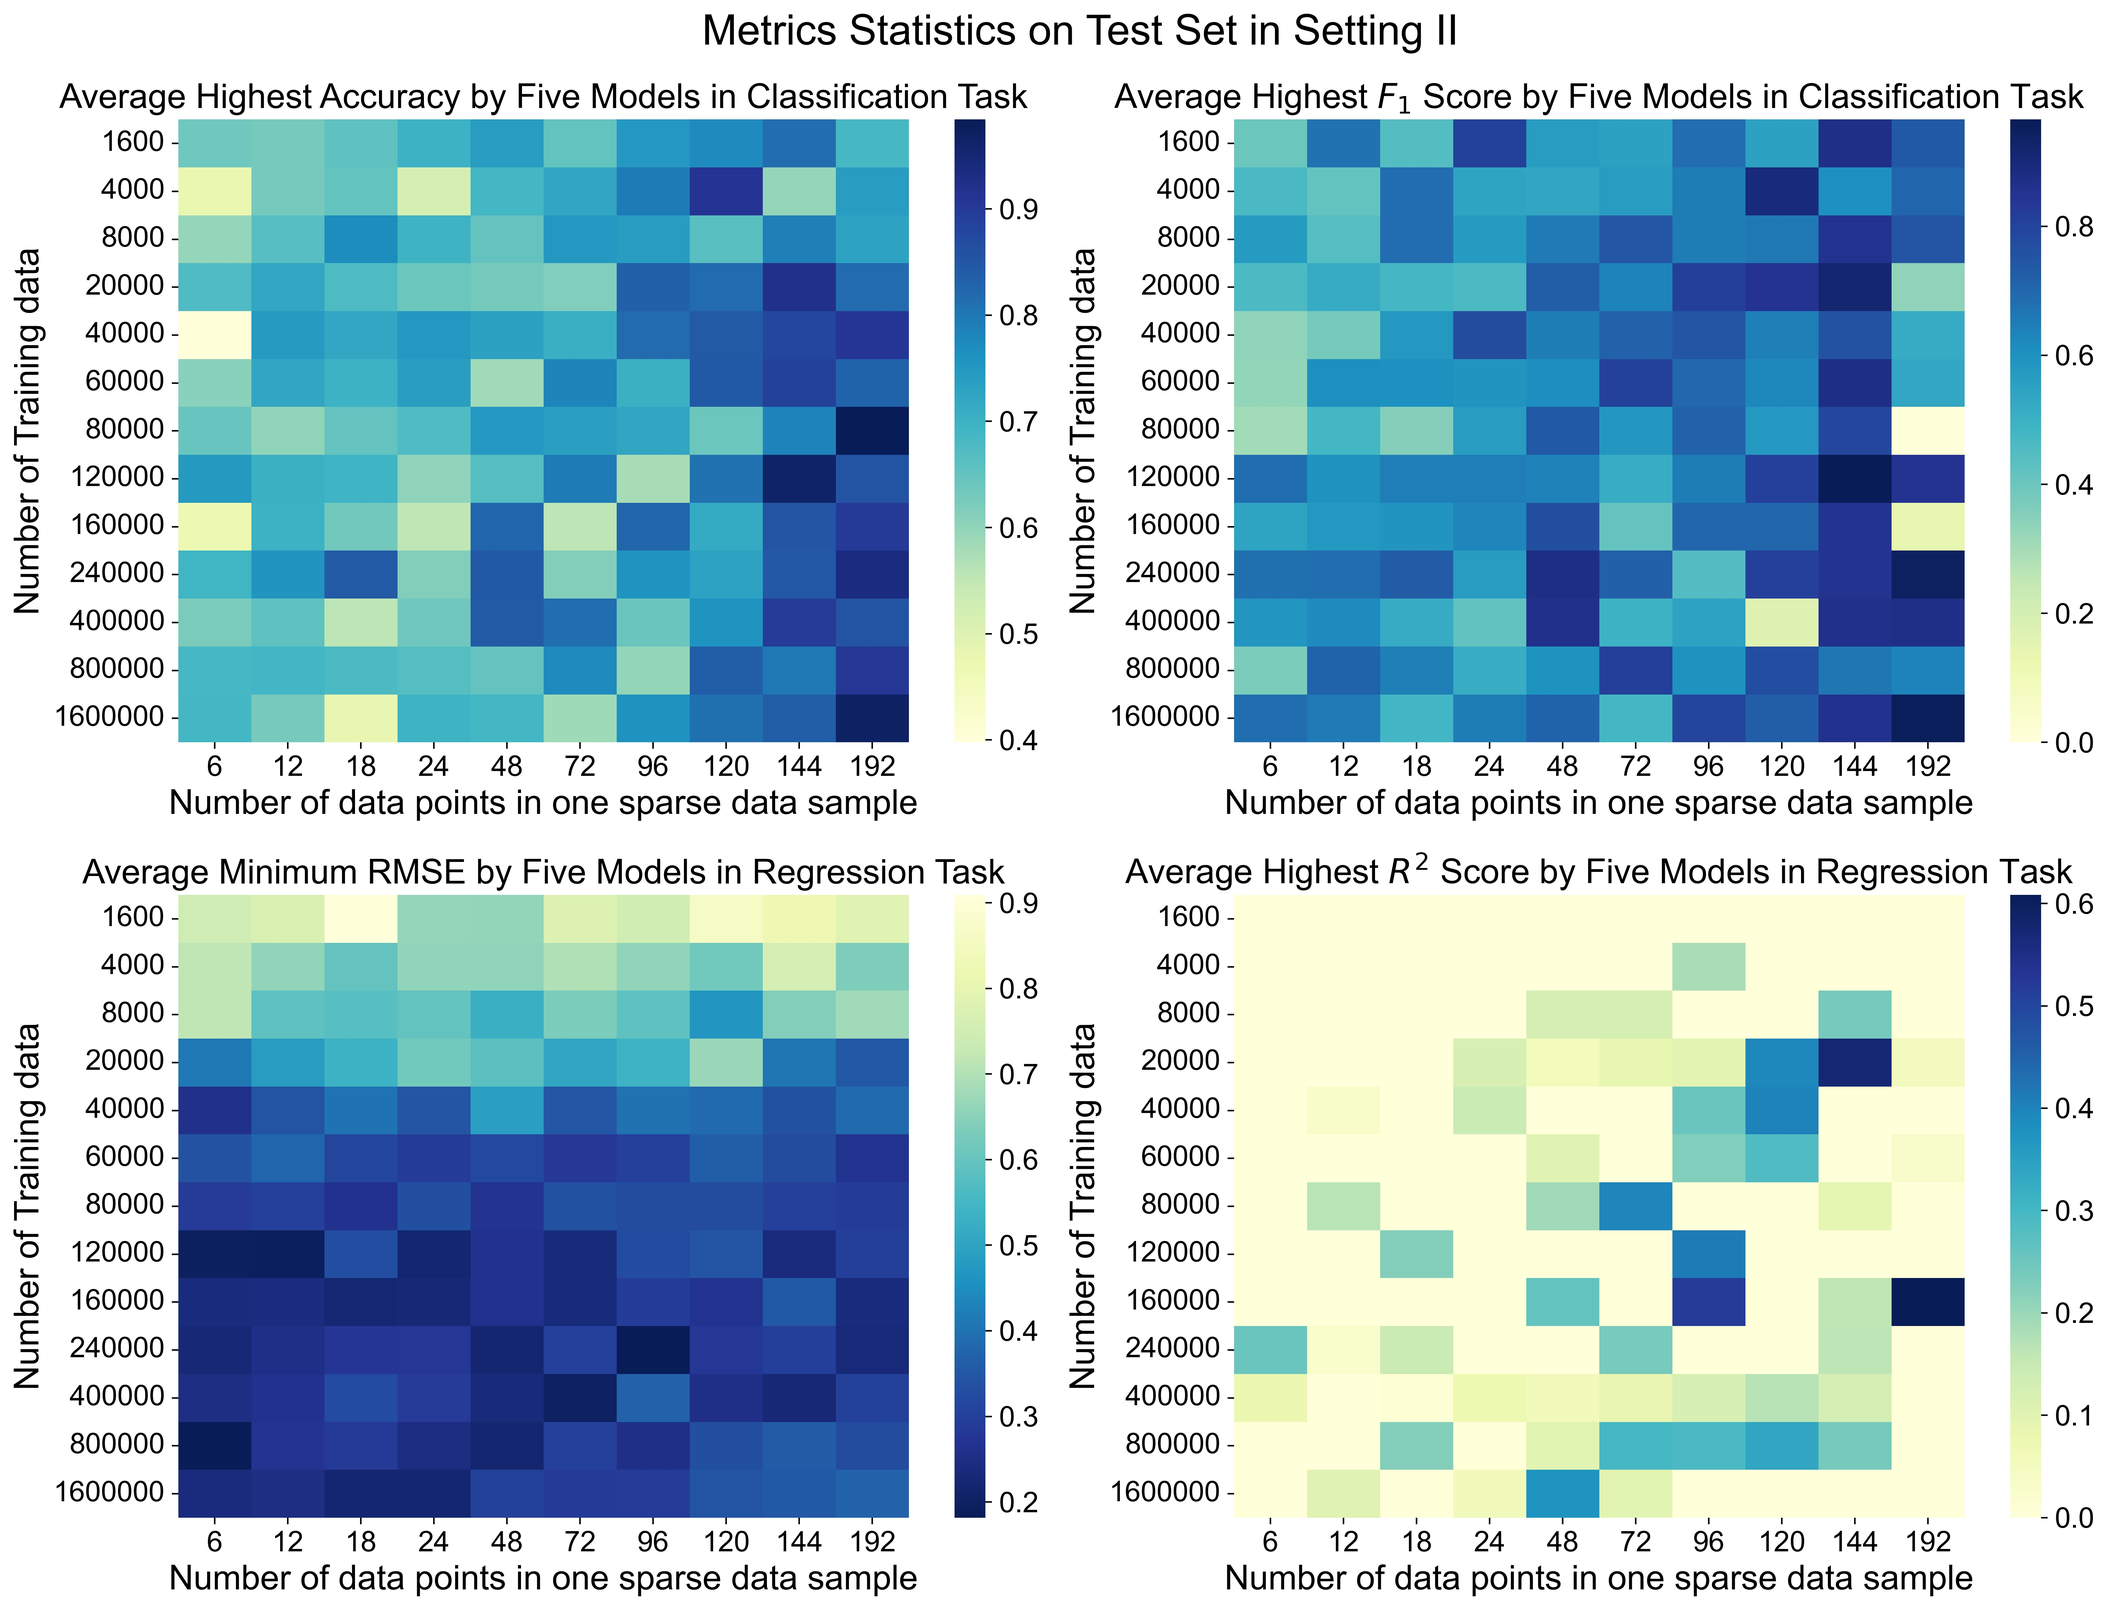
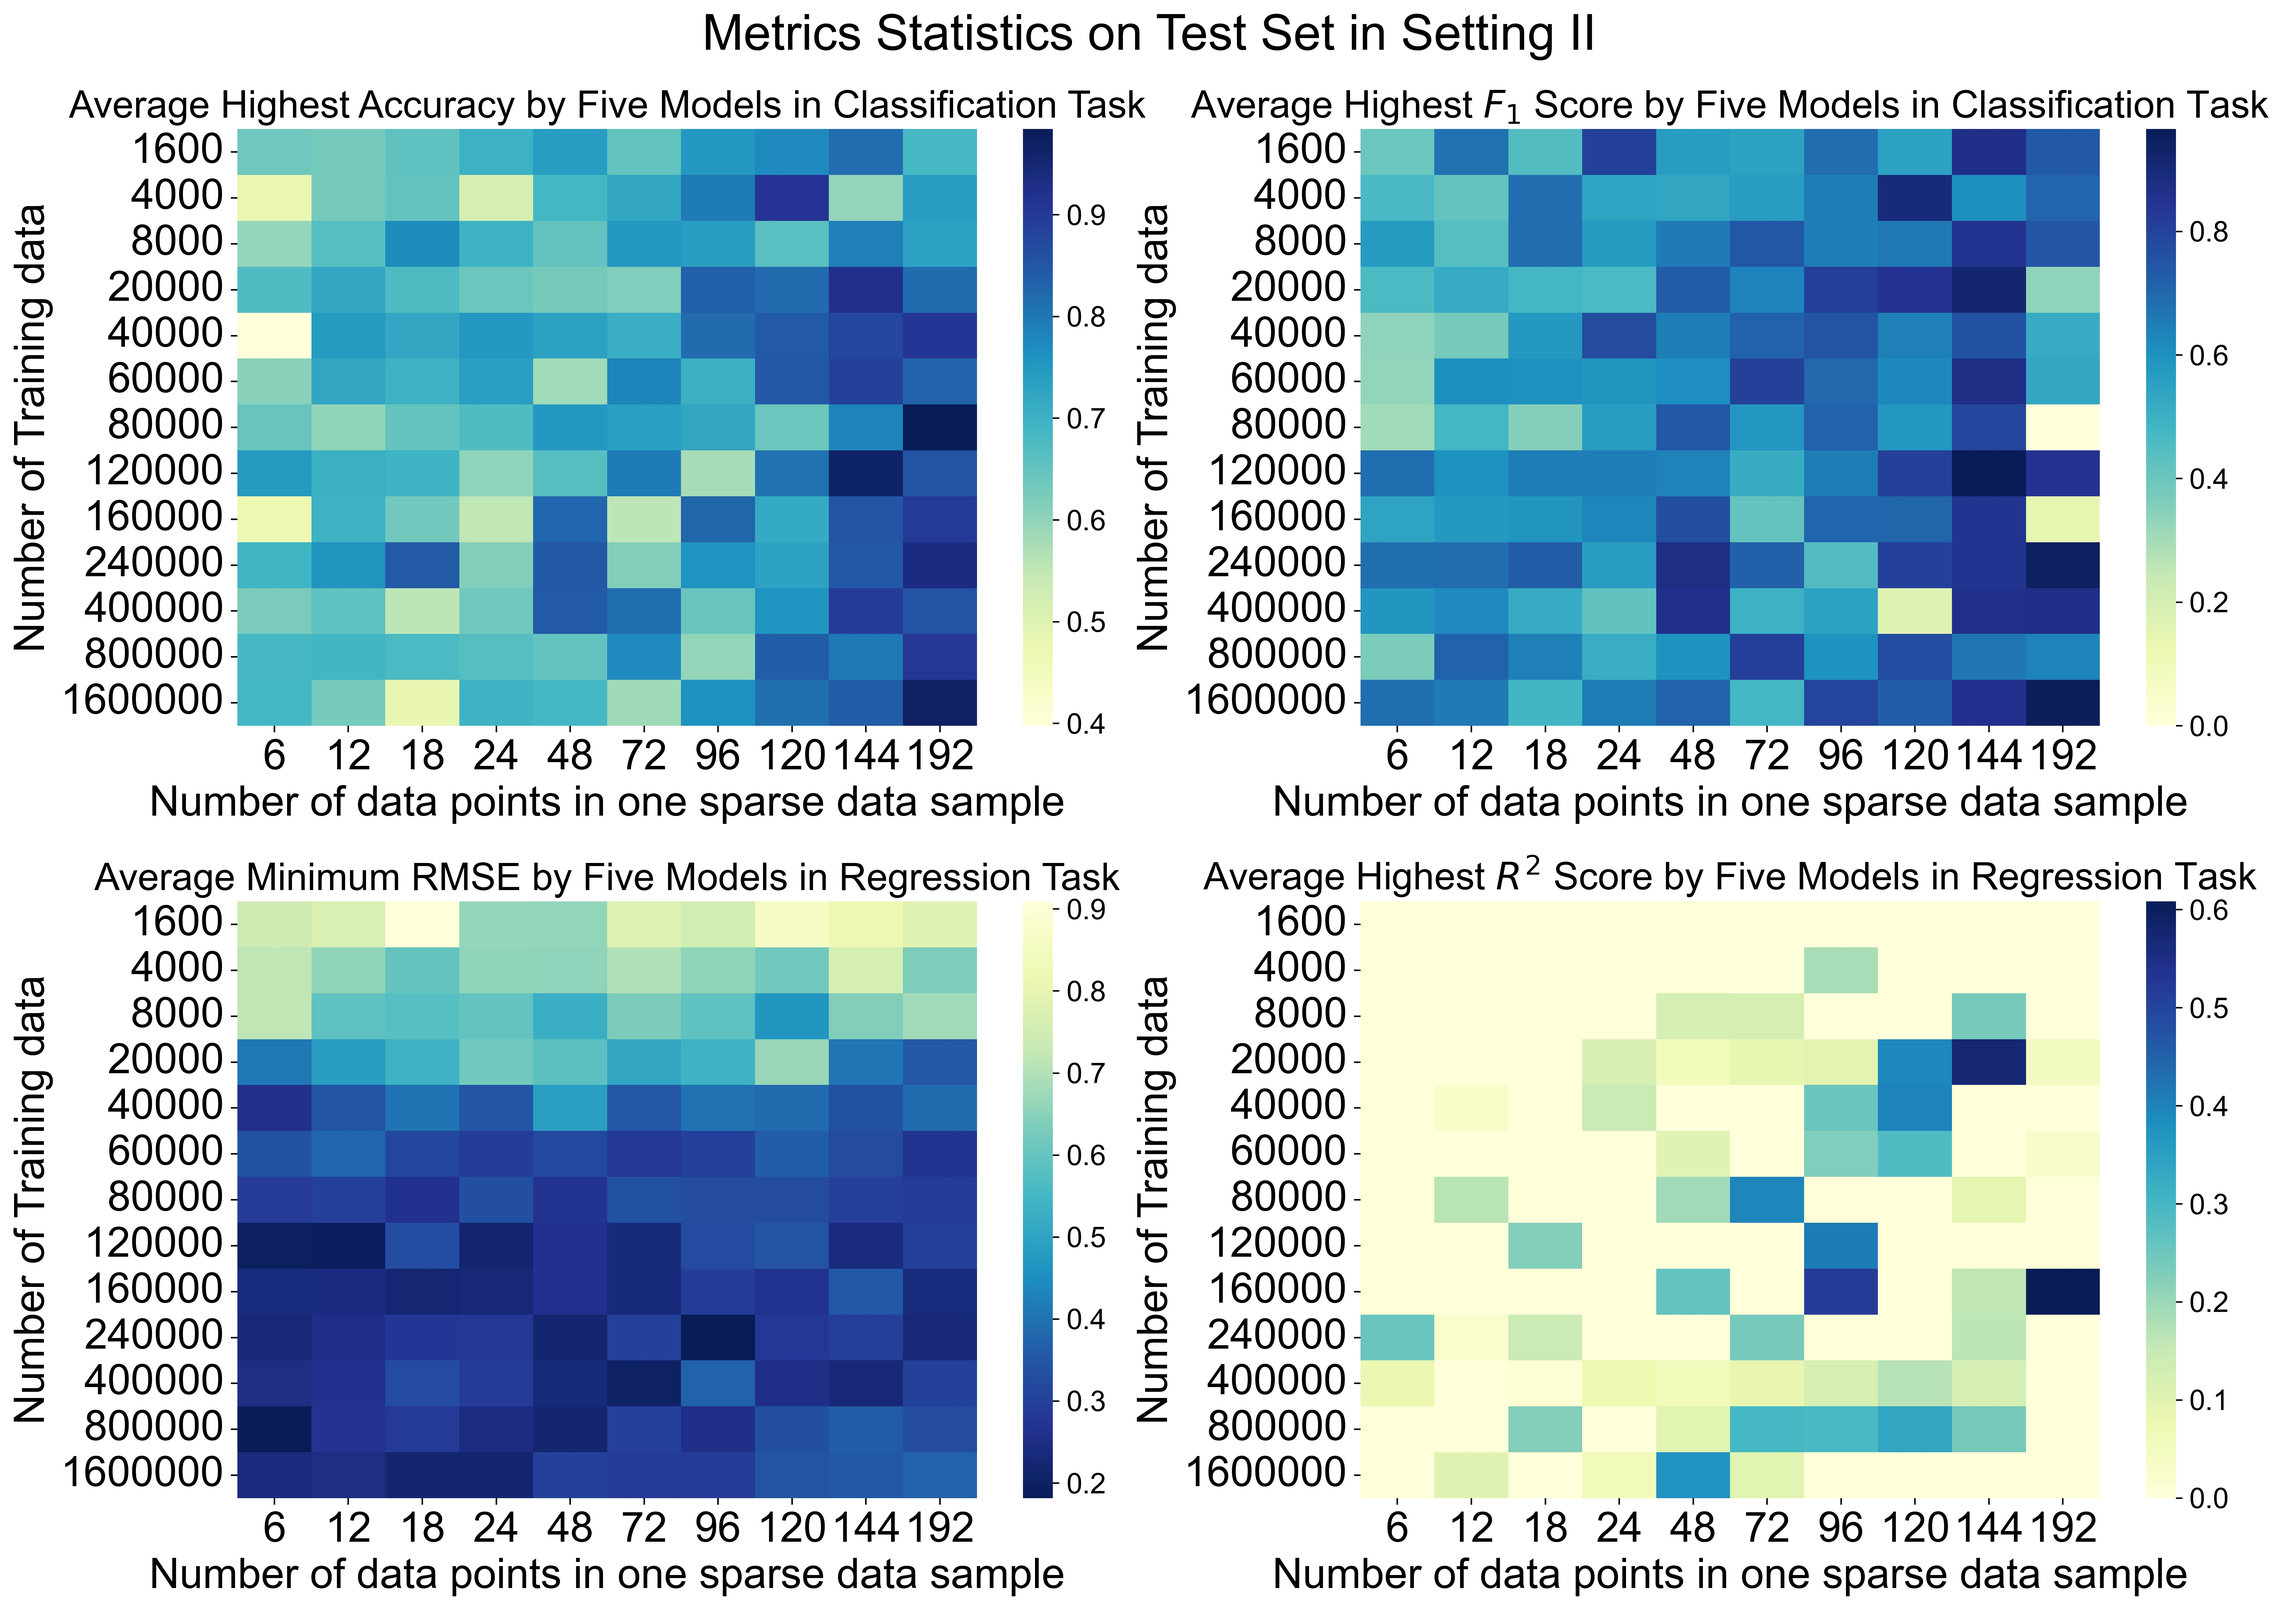
update

Changed region(s): [[0.0, 0.0, 0.9997, 0.9953], [0.781, 0.591, 0.8435, 0.6221]]

diff --git a/new_room_validation/plot.py b/new_room_validation/plot.py
@@ -61,35 +61,46 @@ for gs in gs_choices:
 
 plt.rcParams["font.family"] = "Arial"
 plt.rcParams.update({'font.size': 15})
-plt.rcParams['figure.figsize'] = 16, 12
+plt.rcParams['figure.figsize'] = 17, 12
 plt.rcParams["figure.autolayout"] = True
 plt.subplot(2, 2, 1)
 sns.heatmap(heatmap_df_acc_mean.to_numpy(), annot=add_annot, xticklabels=gs_choices,
             yticklabels=[int(i * 0.8) for i in data_num_choices], cmap="YlGnBu", fmt=".2f", linewidths=linewidth)
-plt.xlabel("Number of data points in one sparse data sample", fontsize=18)
-plt.ylabel("Number of Training data", fontsize=18)
-plt.title("Average Highest Accuracy by Five Models in Classification Task", fontsize=18)
+plt.xlabel("Number of data points in one sparse data sample", fontsize=22)
+plt.ylabel("Number of Training data", fontsize=22)
+plt.xticks(fontsize=22)
+plt.yticks(fontsize=22)
+plt.title("Average Highest Accuracy by Five Models in Classification Task", fontsize=20)
+
 plt.subplot(2, 2, 2)
 sns.heatmap(heatmap_df_f1_mean.to_numpy(), annot=add_annot, xticklabels=gs_choices,
             yticklabels=[int(i * 0.8) for i in data_num_choices], cmap="YlGnBu", fmt=".2f", linewidths=linewidth)
-plt.xlabel("Number of data points in one sparse data sample", fontsize=18)
-plt.ylabel("Number of Training data", fontsize=18)
-plt.title("Average Highest $F_1$ Score by Five Models in Classification Task", fontsize=18)
+plt.xlabel("Number of data points in one sparse data sample", fontsize=22)
+plt.ylabel("Number of Training data", fontsize=22)
+plt.xticks(fontsize=22)
+plt.yticks(fontsize=22)
+plt.title("Average Highest $F_1$ Score by Five Models in Classification Task", fontsize=20)
+
 plt.subplot(2, 2, 3)
 sns.heatmap(heatmap_df_rmse_mean.to_numpy(), annot=add_annot, xticklabels=gs_choices,
             yticklabels=[int(i * 0.8) for i in data_num_choices], cmap="YlGnBu_r", fmt=".2f", linewidths=linewidth)
-plt.xlabel("Number of data points in one sparse data sample", fontsize=18)
-plt.ylabel("Number of Training data", fontsize=18)
-plt.title("Average Minimum RMSE by Five Models in Regression Task", fontsize=18)
+plt.xlabel("Number of data points in one sparse data sample", fontsize=22)
+plt.ylabel("Number of Training data", fontsize=22)
+plt.xticks(fontsize=22)
+plt.yticks(fontsize=22)
+plt.title("Average Minimum RMSE by Five Models in Regression Task", fontsize=20)
+
 plt.subplot(2, 2, 4)
 # heatmap_df_r2_mean = gaussian_filter(heatmap_df_r2_mean, sigma=1)
 sns.heatmap(heatmap_df_r2_mean.to_numpy(), annot=add_annot, xticklabels=gs_choices,
             yticklabels=[int(i * 0.8) for i in data_num_choices], cmap="YlGnBu", fmt=".2f", linewidths=linewidth)
-plt.xlabel("Number of data points in one sparse data sample", fontsize=18)
-plt.ylabel("Number of Training data", fontsize=18)
-plt.title("Average Highest $R^2$ Score by Five Models in Regression Task", fontsize=18)
+plt.xlabel("Number of data points in one sparse data sample", fontsize=22)
+plt.ylabel("Number of Training data", fontsize=22)
+plt.xticks(fontsize=22)
+plt.yticks(fontsize=22)
+plt.title("Average Highest $R^2$ Score by Five Models in Regression Task", fontsize=20)
 
-plt.suptitle("Metrics Statistics on Test Set in Setting II", fontsize=22)
+plt.suptitle("Metrics Statistics on Test Set in Setting II", fontsize=26)
 plt.savefig('./ALL_PLOT.jpg', bbox_inches='tight', dpi=800)
 plt.savefig('../demo/SettingII_all.jpg', bbox_inches='tight', dpi=400)
 plt.clf()
@@ -104,23 +115,31 @@ reg['model'] = reg['model'].apply(lambda x: {'bilstm': 'BiLSTM', 'lstm': 'LSTM',
                                              'bilstm-transformer': 'BiLSTM-Transformer'}[x])
 plt.subplot(2, 2, 1)
 sns.lineplot(data=cla, y='best_valid_f1', x='gs', hue='model', ci=None)
-plt.xlabel("Number of data points in one sparse data sample", fontsize=18)
-plt.ylabel("Maximum $f_1$ Score", fontsize=18)
+plt.xlabel("Number of data points in one sparse data sample", fontsize=22)
+plt.ylabel("Maximum $f_1$ Score", fontsize=22)
+plt.xticks(fontsize=22)
+plt.yticks(fontsize=22)
 plt.subplot(2, 2, 2)
 sns.lineplot(data=cla, y='best_valid_f1', x='data_number', hue='model', ci=None)
-plt.xlabel("Number of training data", fontsize=18)
-plt.ylabel("Maximum $f_1$ Score", fontsize=18)
+plt.xlabel("Number of training data", fontsize=22)
+plt.ylabel("Maximum $f_1$ Score", fontsize=22)
+plt.xticks(fontsize=22)
+plt.yticks(fontsize=22)
 plt.subplot(2, 2, 3)
 sns.lineplot(data=reg, y='best_valid_r2', x='gs', hue='model', ci=None)
-plt.xlabel("Number of data points in one sparse data sample", fontsize=18)
-plt.ylabel("Maximum $R^2$ Score", fontsize=18)
+plt.xlabel("Number of data points in one sparse data sample", fontsize=22)
+plt.ylabel("Maximum $R^2$ Score", fontsize=22)
+plt.xticks(fontsize=22)
+plt.yticks(fontsize=22)
 plt.subplot(2, 2, 4)
 sns.lineplot(data=reg, y='best_valid_r2', x='data_number', hue='model', ci=None)
-plt.xlabel("Number of training data", fontsize=18)
-plt.ylabel("Maximum $R^2$ Score", fontsize=18)
+plt.xlabel("Number of training data", fontsize=22)
+plt.ylabel("Maximum $R^2$ Score", fontsize=22)
+plt.xticks(fontsize=22)
+plt.yticks(fontsize=22)
 plt.suptitle(
     "Comparison between five models in both tasks on test set in Setting II\nwith respect to two parameters in sparse data sampling",
-    fontsize=22)
+    fontsize=26)
 plt.savefig('./Model_Plot.png', bbox_inches='tight', dpi=800)
 plt.savefig('../demo/SettingII_model.jpg', bbox_inches='tight', dpi=400)
 plt.clf()

diff --git a/sparse_classification/plot.py b/sparse_classification/plot.py
@@ -60,38 +60,46 @@ for gs in gs_choices:
 
 plt.rcParams["font.family"] = "Arial"
 plt.rcParams.update({'font.size': 16})
-plt.rcParams['figure.figsize'] = 16, 12
+plt.rcParams['figure.figsize'] = 17, 12
 plt.rcParams["figure.autolayout"] = True
 plt.subplot(2, 2, 1)
 sns.heatmap(heatmap_df_acc_mean.to_numpy(), annot=add_annot, xticklabels=gs_choices,
             yticklabels=[int(i * 0.8) for i in data_num_choices], cmap="YlGnBu", fmt=".2f", linewidths=linewidth)
-plt.xlabel("Number of data points in one sparse data sample", fontsize=18)
-plt.ylabel("Number of Training data", fontsize=18)
-plt.title("Average Highest Accuracy by Five Models in Classification Task")
+plt.xlabel("Number of data points in one sparse data sample", fontsize=22)
+plt.ylabel("Number of Training data", fontsize=22)
+plt.xticks(fontsize=22)
+plt.yticks(fontsize=22)
+plt.title("Average Highest Accuracy by Five Models in Classification Task", fontsize=20)
 
 plt.subplot(2, 2, 2)
 sns.heatmap(heatmap_df_f1_mean.to_numpy(), annot=add_annot, xticklabels=gs_choices,
             yticklabels=[int(i * 0.8) for i in data_num_choices], cmap="YlGnBu", fmt=".2f", linewidths=linewidth)
-plt.xlabel("Number of data points in one sparse data sample", fontsize=18)
-plt.ylabel("Number of Training data", fontsize=18)
-plt.title("Average Highest $F_1$ Score by Five Models in Classification Task")
+plt.xlabel("Number of data points in one sparse data sample", fontsize=22)
+plt.ylabel("Number of Training data", fontsize=22)
+plt.xticks(fontsize=22)
+plt.yticks(fontsize=22)
+plt.title("Average Highest $F_1$ Score by Five Models in Classification Task", fontsize=20)
 
 plt.subplot(2, 2, 3)
 sns.heatmap(heatmap_df_rmse_mean.to_numpy(), annot=add_annot, xticklabels=gs_choices,
             yticklabels=[int(i * 0.8) for i in data_num_choices], cmap="YlGnBu_r", fmt=".2f", linewidths=linewidth)
-plt.xlabel("Number of data points in one sparse data sample", fontsize=18)
-plt.ylabel("Number of Training data", fontsize=18)
-plt.title("Average Minimum RMSE by Five Models in Regression Task")
+plt.xlabel("Number of data points in one sparse data sample", fontsize=22)
+plt.ylabel("Number of Training data", fontsize=22)
+plt.xticks(fontsize=22)
+plt.yticks(fontsize=22)
+plt.title("Average Minimum RMSE by Five Models in Regression Task", fontsize=20)
 
 plt.subplot(2, 2, 4)
 # heatmap_df_r2_mean = gaussian_filter(heatmap_df_r2_mean, sigma=1)
 sns.heatmap(heatmap_df_r2_mean.to_numpy(), annot=add_annot, xticklabels=gs_choices,
             yticklabels=[int(i * 0.8) for i in data_num_choices], cmap="YlGnBu", fmt=".2f", linewidths=linewidth)
-plt.xlabel("Number of data points in one sparse data sample", fontsize=18)
-plt.ylabel("Number of Training data", fontsize=18)
-plt.title("Average Highest $R^2$ Score by Five Models in Regression Task")
+plt.xlabel("Number of data points in one sparse data sample", fontsize=22)
+plt.ylabel("Number of Training data", fontsize=22)
+plt.xticks(fontsize=22)
+plt.yticks(fontsize=22)
+plt.title("Average Highest $R^2$ Score by Five Models in Regression Task", fontsize=20)
 
-plt.suptitle("Metrics Statistics on Test Set in Setting I", fontsize=22)
+plt.suptitle("Metrics Statistics on Test Set in Setting I", fontsize=26)
 plt.savefig('./ALL_PLOT.jpg', bbox_inches='tight', dpi=800)
 plt.savefig('../demo/SettingI_all.jpg', bbox_inches='tight', dpi=400)
 plt.clf()
@@ -106,23 +114,31 @@ reg['model'] = reg['model'].apply(lambda x: {'bilstm': 'BiLSTM', 'lstm': 'LSTM',
                                              'bilstm-transformer': 'BiLSTM-Transformer'}[x])
 plt.subplot(2, 2, 1)
 sns.lineplot(data=cla, y='best_valid_f1', x='gs', hue='model', ci=None)
-plt.xlabel("Number of data points in one sparse data sample", fontsize=18)
-plt.ylabel("Maximum $f_1$ Score", fontsize=18)
+plt.xlabel("Number of data points in one sparse data sample", fontsize=22)
+plt.ylabel("Maximum $f_1$ Score", fontsize=22)
+plt.xticks(fontsize=22)
+plt.yticks(fontsize=22)
 plt.subplot(2, 2, 2)
 sns.lineplot(data=cla, y='best_valid_f1', x='data_number', hue='model', ci=None)
-plt.xlabel("Number of training data", fontsize=18)
-plt.ylabel("Maximum $f_1$ Score", fontsize=18)
+plt.xlabel("Number of training data", fontsize=22)
+plt.ylabel("Maximum $f_1$ Score", fontsize=22)
+plt.xticks(fontsize=22)
+plt.yticks(fontsize=22)
 plt.subplot(2, 2, 3)
 sns.lineplot(data=reg, y='best_valid_r2', x='gs', hue='model', ci=None)
-plt.xlabel("Number of data points in one sparse data sample", fontsize=18)
-plt.ylabel("Maximum $R^2$ Score", fontsize=18)
+plt.xlabel("Number of data points in one sparse data sample", fontsize=22)
+plt.ylabel("Maximum $R^2$ Score", fontsize=22)
+plt.xticks(fontsize=22)
+plt.yticks(fontsize=22)
 plt.subplot(2, 2, 4)
 sns.lineplot(data=reg, y='best_valid_r2', x='data_number', hue='model', ci=None)
-plt.xlabel("Number of training data", fontsize=18)
-plt.ylabel("Maximum $R^2$ Score", fontsize=18)
+plt.xlabel("Number of training data", fontsize=22)
+plt.ylabel("Maximum $R^2$ Score", fontsize=22)
+plt.xticks(fontsize=22)
+plt.yticks(fontsize=22)
 plt.suptitle(
     "Comparison between five models in both tasks on test set in Setting I\nwith respect to two parameters in sparse data sampling",
-    fontsize=22)
+    fontsize=26)
 plt.savefig('./Model_Plot.png', bbox_inches='tight', dpi=800)
 plt.savefig('../demo/SettingI_model.jpg', bbox_inches='tight', dpi=400)
 plt.clf()

diff --git a/preprocessing/cate_comparison_plot.py b/preprocessing/cate_comparison_plot.py
@@ -10,7 +10,7 @@ import pandas as pd
 
 plt.rc('font', family='Arial')
 plt.rcParams["figure.autolayout"] = True
-plt.rcParams['figure.figsize'] = 16, 9
+plt.rcParams['figure.figsize'] = 20, 10
 plt.rcParams.update({'font.size': 15})
 
 time1 = ['00:00:00', '00:30:00', '01:00:00', '01:30:00', '02:00:00', '02:30:00', '03:00:00', '03:30:00', '04:00:00',
@@ -52,12 +52,13 @@ for i in range(4):
                                                                                 len(poor_data['Location'].unique())),
                  color="skyblue", hist_kws={"edgecolor": "black"}, kde_kws={"linewidth": "3"})
     plt.legend()
-    plt.title(title[i], fontsize=18)
-    ratio = "%.2f" % (100 *
-                      (round(np.mean(poor_data['AC']), 4) - round(np.mean(normal_data['AC']), 4)) / round(
-                np.mean(normal_data['AC']),
-                4))
-    plt.xlabel("Half-hourly AC Electricity Consumption/kWh\nEnergy Saving Ratio: {}%".format(ratio), fontsize=18)
-    plt.ylabel("Kernel Density", fontsize=18)
-plt.suptitle("Energy Consumption Comparison Between Different RAC Groups During Four Time Periods", fontsize=22)
+    plt.title(title[i], fontsize=22)
+    ratio = "%.2f" % (100 * (round(np.mean(poor_data['AC']), 4) - round(np.mean(normal_data['AC']), 4)) / round(
+        np.mean(normal_data['AC']), 4))
+    plt.xlabel("Half-hourly AC Electricity Consumption/kWh\nEnergy Saving Ratio: {}%".format(ratio), fontsize=22)
+    plt.ylabel("Kernel Density", fontsize=22)
+    plt.xticks(fontsize=22)
+    plt.yticks(fontsize=22)
+    plt.legend(fontsize=18)
+plt.suptitle("Energy Consumption Comparison Between Different RAC Groups During Four Time Periods", fontsize=26)
 plt.savefig('./TOTAL_comparison.png', bbox_inches='tight', dpi=800)
